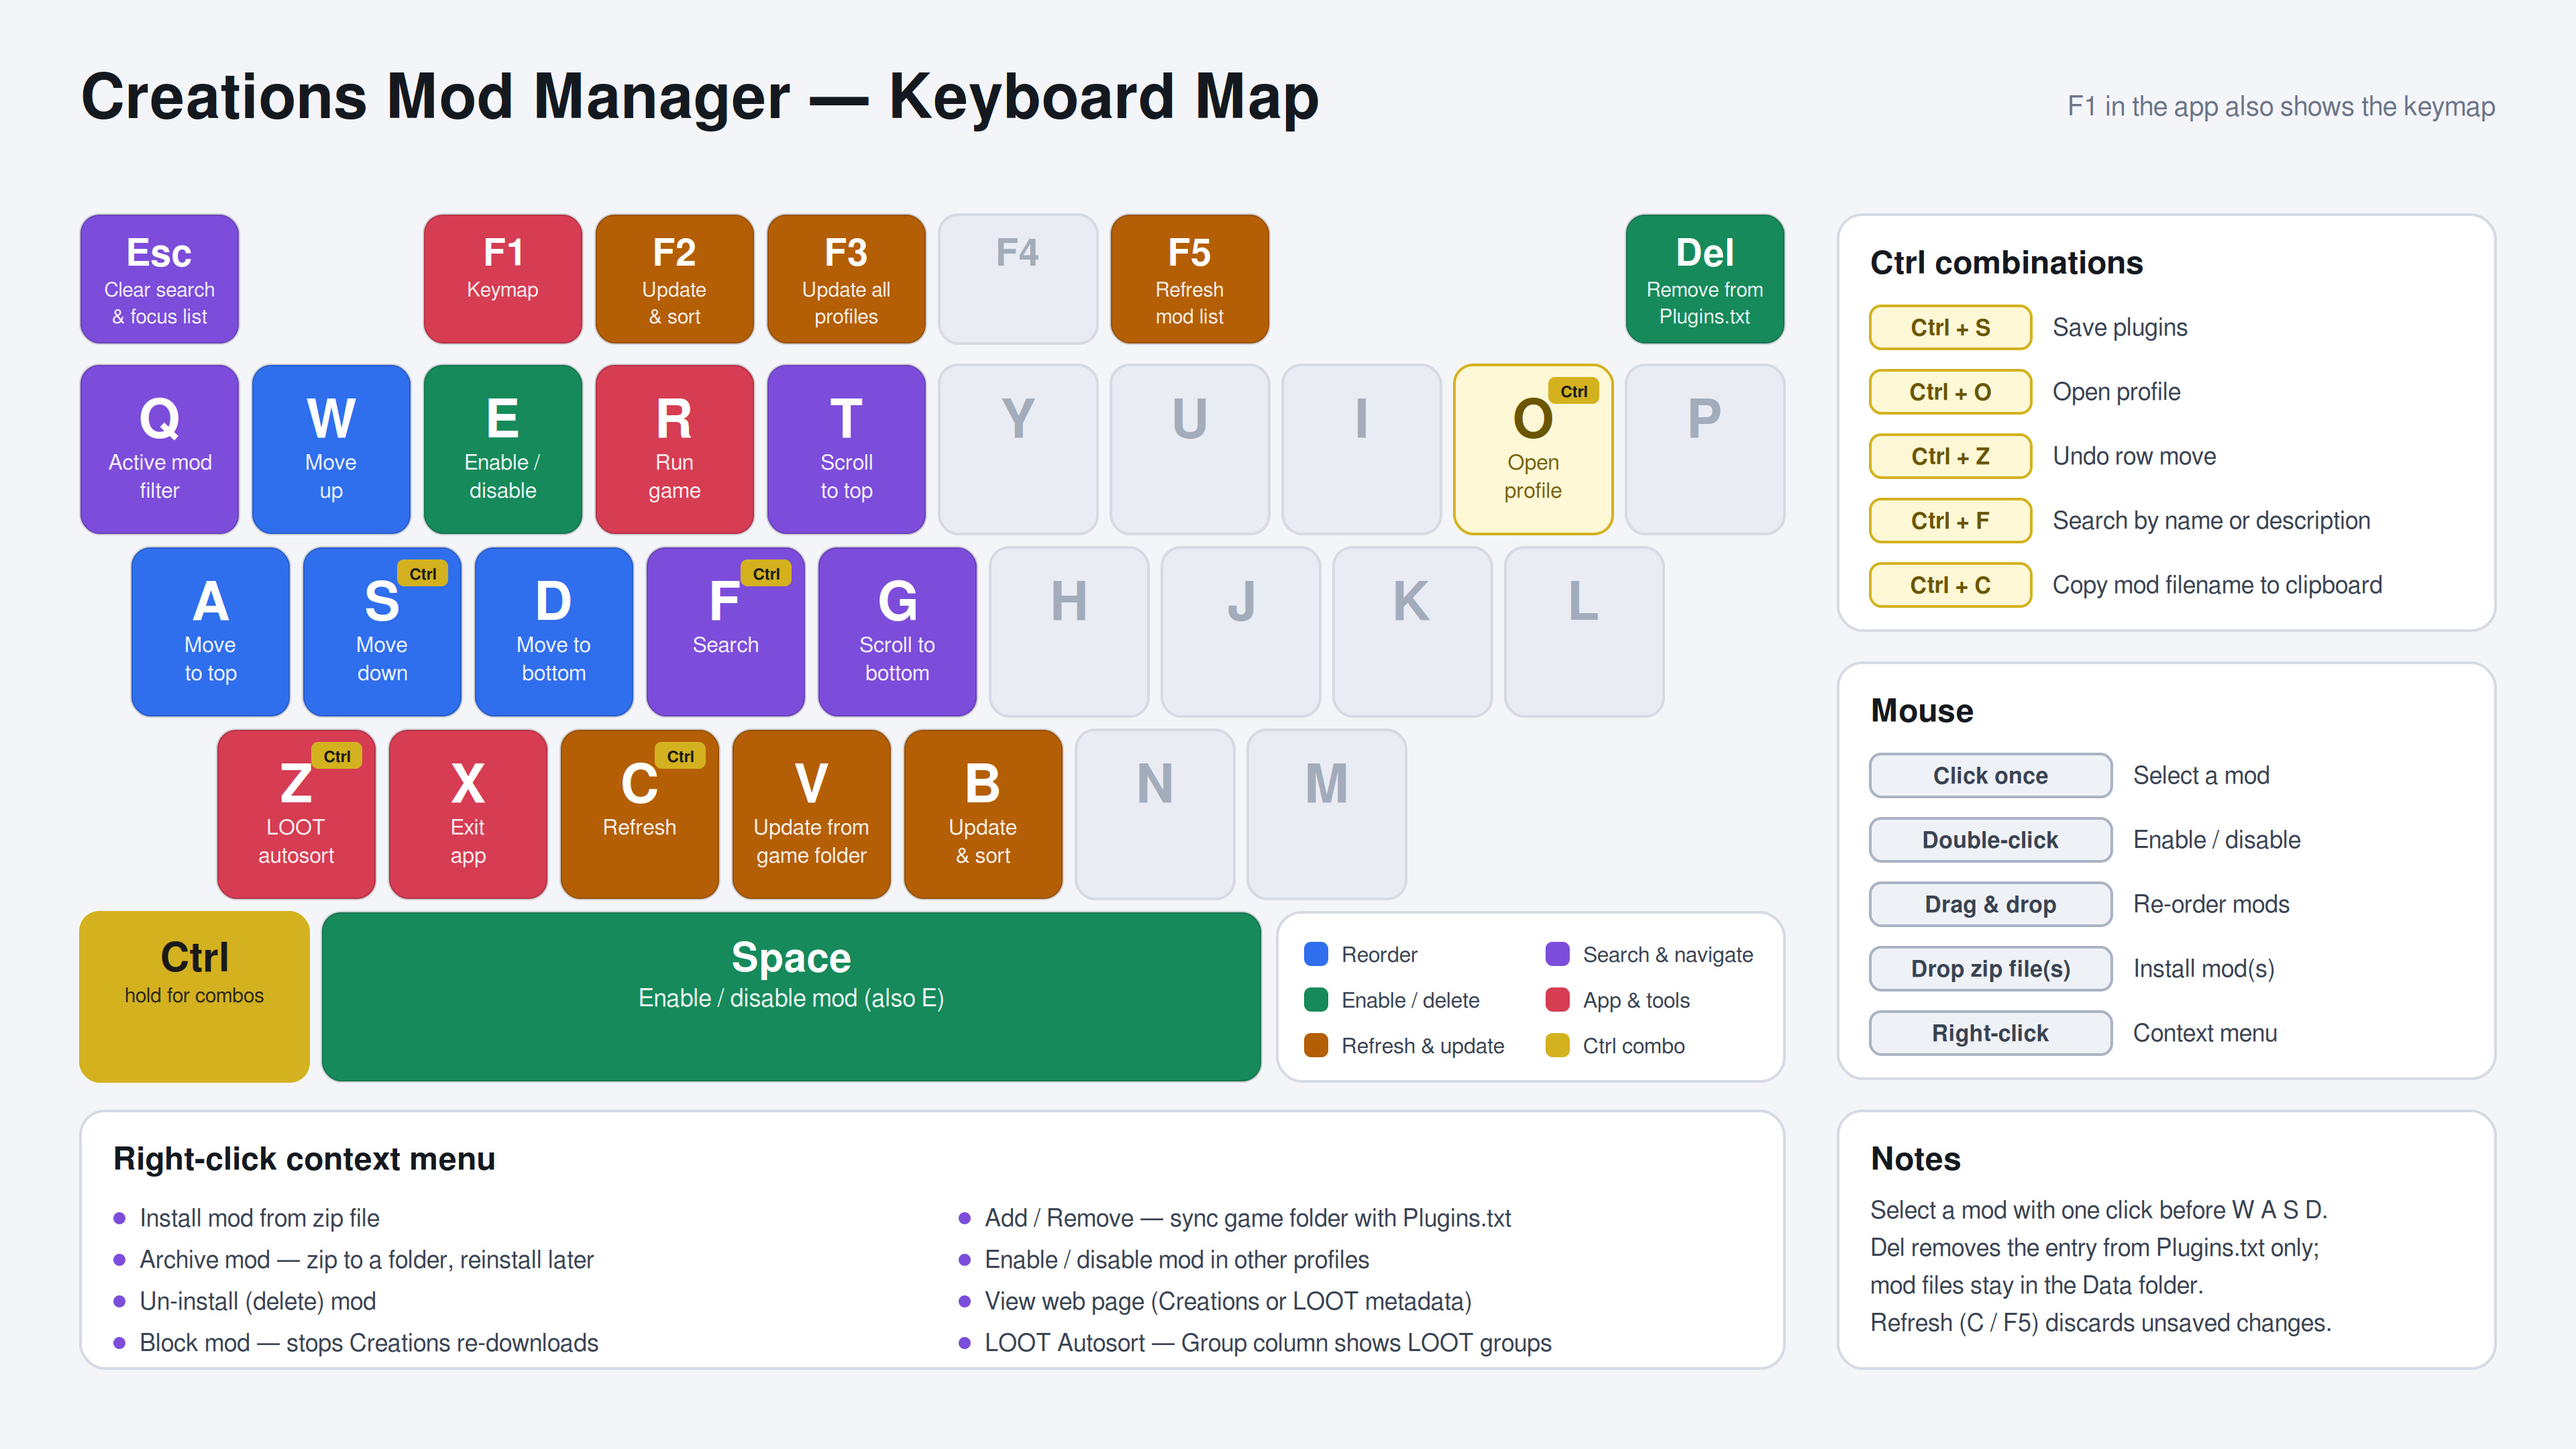
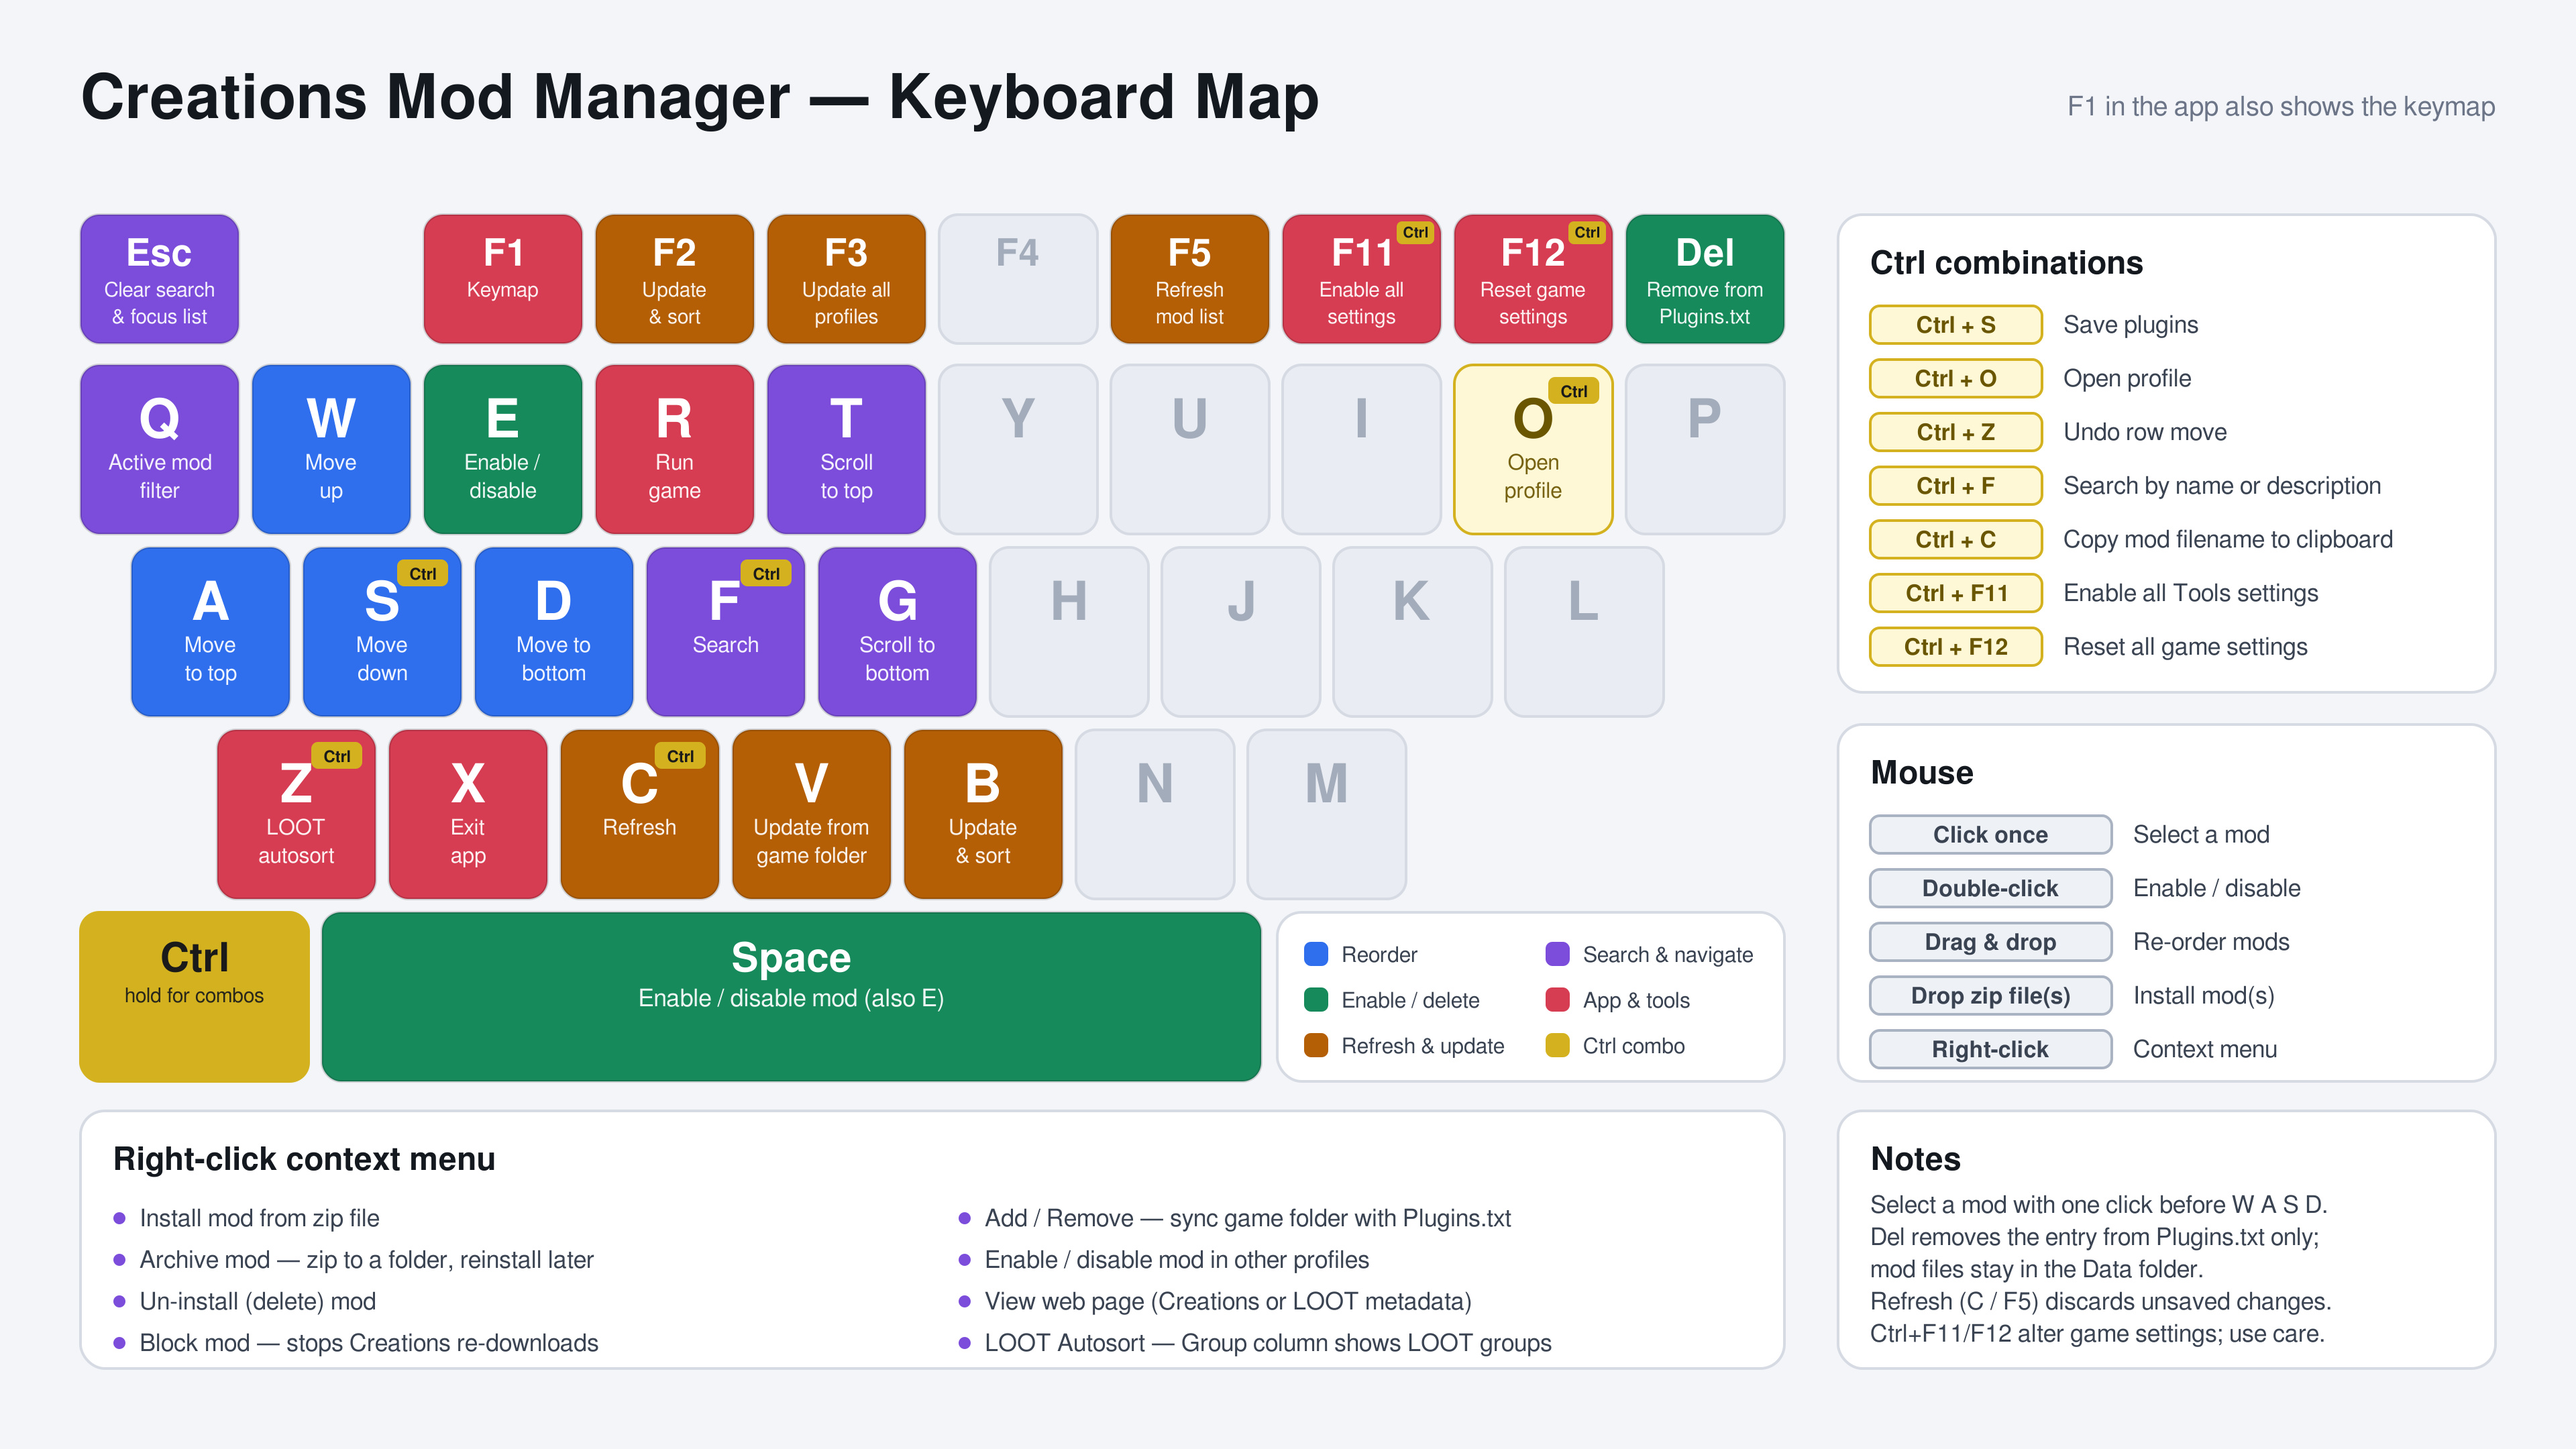
Updated keymap files

diff --git a/Properties/Resources.Designer.cs b/Properties/Resources.Designer.cs
@@ -73,9 +73,9 @@ namespace hstCMM.Properties {
         /// <summary>
         ///   Looks up a localized resource of type System.Drawing.Bitmap.
         /// </summary>
-        public static System.Drawing.Bitmap Keymap {
+        public static System.Drawing.Bitmap Keymap_Dark {
             get {
-                object obj = ResourceManager.GetObject("Keymap", resourceCulture);
+                object obj = ResourceManager.GetObject("Keymap-Dark", resourceCulture);
                 return ((System.Drawing.Bitmap)(obj));
             }
         }
@@ -83,19 +83,9 @@ namespace hstCMM.Properties {
         /// <summary>
         ///   Looks up a localized resource of type System.Drawing.Bitmap.
         /// </summary>
-        public static System.Drawing.Bitmap keymap_light {
+        public static System.Drawing.Bitmap Keymap_Light {
             get {
-                object obj = ResourceManager.GetObject("keymap-light", resourceCulture);
-                return ((System.Drawing.Bitmap)(obj));
-            }
-        }
-        
-        /// <summary>
-        ///   Looks up a localized resource of type System.Drawing.Bitmap.
-        /// </summary>
-        public static System.Drawing.Bitmap KeymapDark {
-            get {
-                object obj = ResourceManager.GetObject("KeymapDark", resourceCulture);
+                object obj = ResourceManager.GetObject("Keymap-Light", resourceCulture);
                 return ((System.Drawing.Bitmap)(obj));
             }
         }

diff --git a/Shared/frmKeymap.cs b/Shared/frmKeymap.cs
@@ -16,7 +16,7 @@ namespace hstCMM.Load_Order_Editor
             InitializeComponent();
 
             if (Properties.Settings.Default.DarkMode == 1)
-                this.BackgroundImage = Properties.Resources.KeymapDark;
+                this.BackgroundImage = Properties.Resources.Keymap_Dark;
 
             // 1. Get the working area of the screen where the form is currently located.
             // WorkingArea excludes the Windows taskbar, which prevents the form from going behind it.

diff --git a/Shared/frmKeymap.Designer.cs b/Shared/frmKeymap.Designer.cs
@@ -35,7 +35,7 @@
             // 
             AutoScaleDimensions = new System.Drawing.SizeF(13F, 32F);
             AutoScaleMode = System.Windows.Forms.AutoScaleMode.Font;
-            BackgroundImage = Properties.Resources.keymap_light;
+            BackgroundImage = Properties.Resources.Keymap_Light;
             BackgroundImageLayout = System.Windows.Forms.ImageLayout.Zoom;
             ClientSize = new System.Drawing.Size(1662, 929);
             DoubleBuffered = true;
